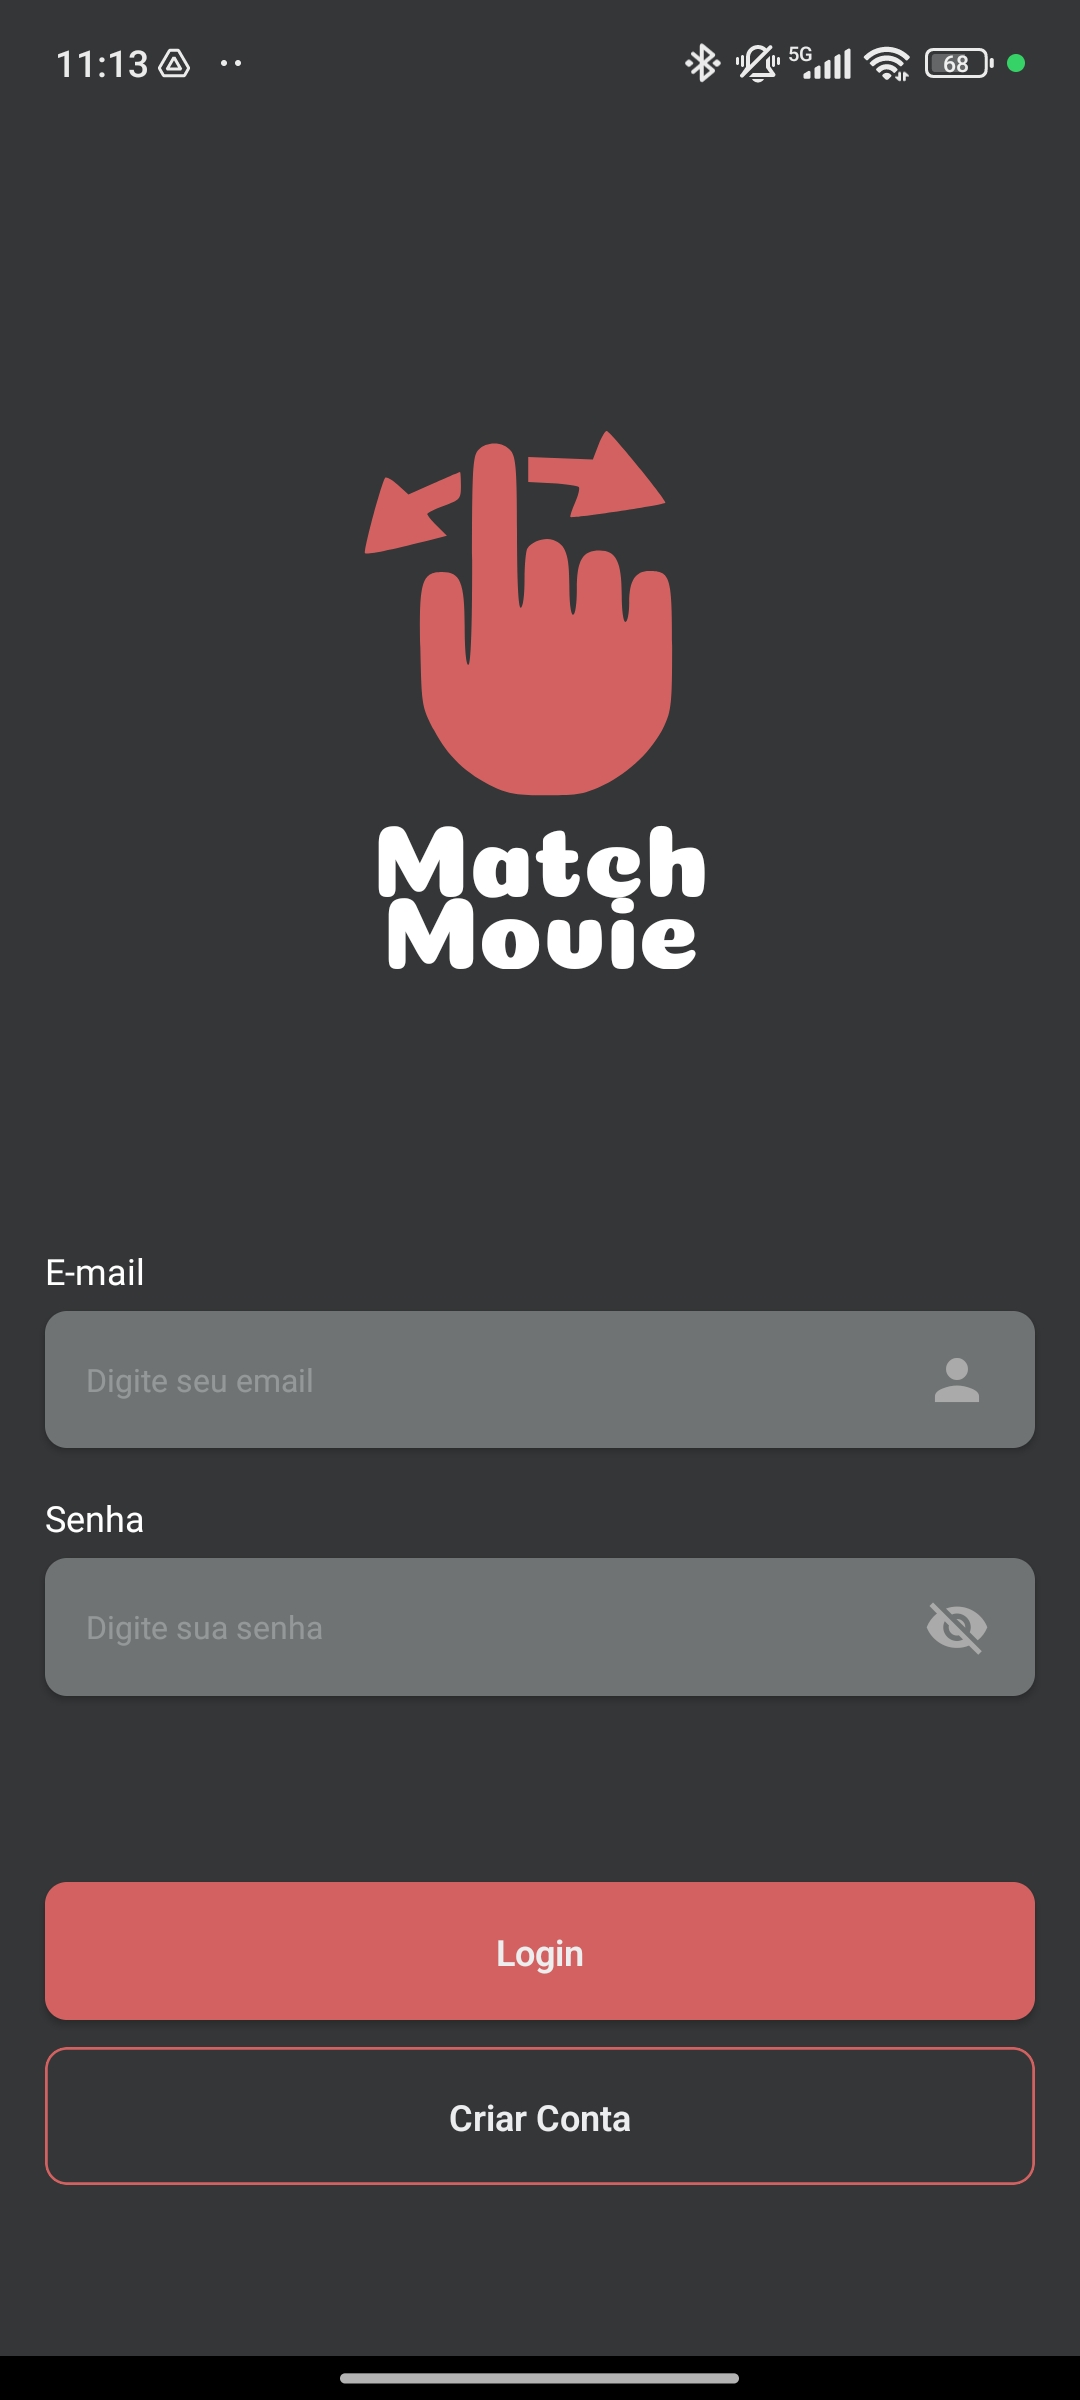
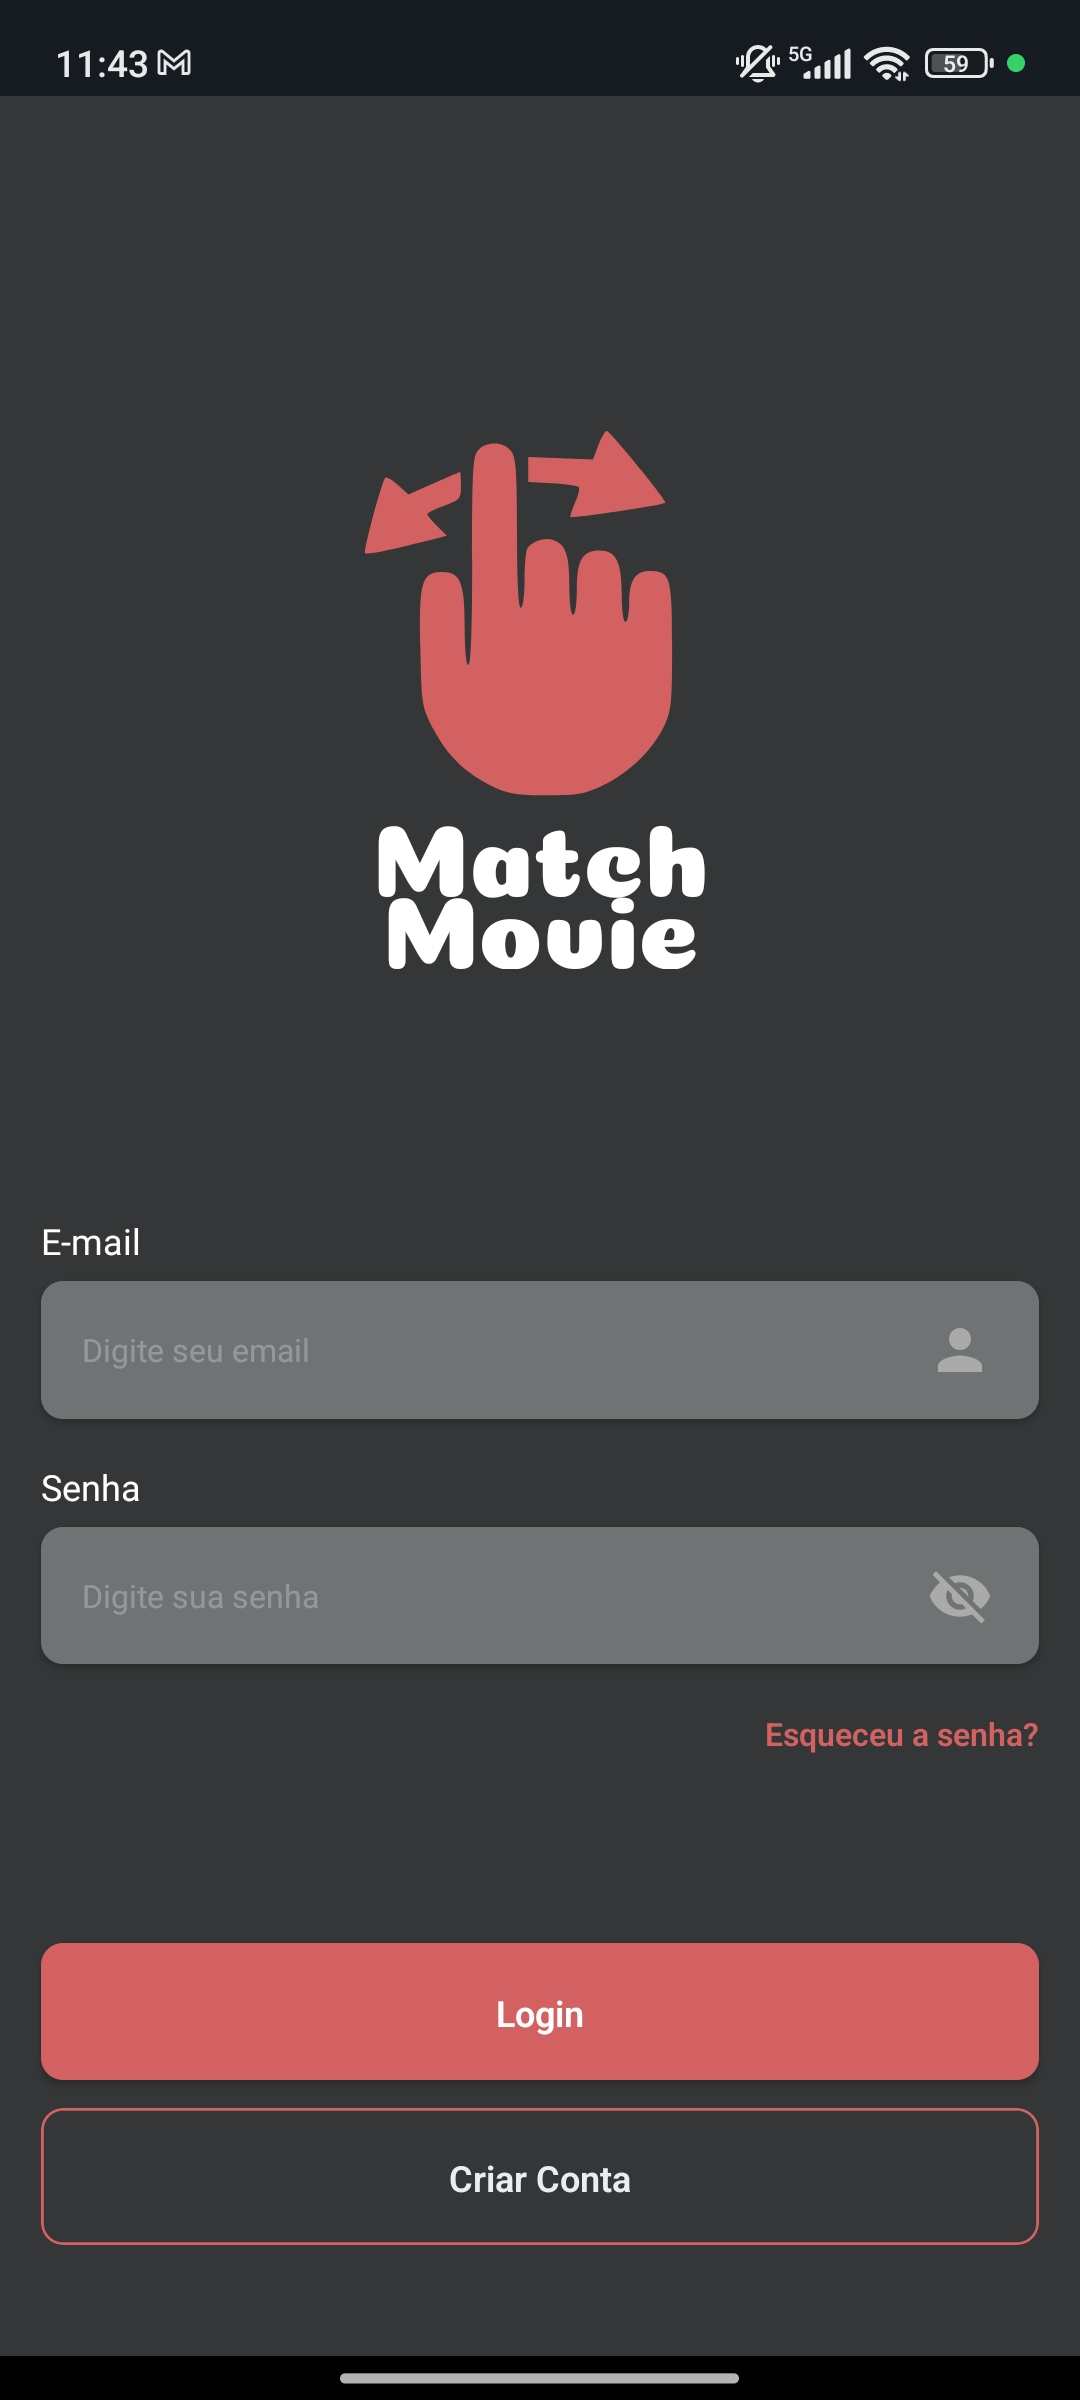
Fix: rec senha, readme, ui

Changed region(s): [[0.0306, 0.5, 0.9778, 0.75], [0.0306, 0.7812, 0.9778, 0.9375], [0.0, 0.0, 1.0, 0.0625]]

diff --git a/app/(tabs)/profile.tsx b/app/(tabs)/profile.tsx
@@ -1,4 +1,5 @@
 import AlertModal from "@/components/ModalAlert";
+import ConfirmModal from "@/components/ModalAlertConfirm";
 import { ThemedText } from "@/components/ThemedText";
 import { Colors } from "@/constants/Colors";
 import { URL_LOCALHOST } from "@/constants/Url";
@@ -51,11 +52,10 @@ export default function ProfileScreen() {
         CoinyRegular: require("../../assets/fonts/Coiny-Regular.ttf"),
     });
     const [refreshing, setRefreshing] = useState(false);
-    const [showModal, setShowModal] = useState(false);
-    const [modalText, setModalText] = useState<string>("");
+    const [confirmDeleteVisible, setConfirmDeleteVisible] = useState(false);
 
     const fetchUserData = async () => {
-        console.log("Token", authToken);
+        // console.log("Token", authToken);
 
         if (!userId) {
             console.log("Sem ID");
@@ -66,14 +66,11 @@ export default function ProfileScreen() {
 
         try {
             console.log("Pegando dados do usuário: ", userId);
-            const response = await fetch(
-                `${URL_LOCALHOST}/users/${userId}`,
-                {
-                    headers: {
-                        Authorization: `Bearer ${authToken}`,
-                    },
-                }
-            );
+            const response = await fetch(`${URL_LOCALHOST}/users/${userId}`, {
+                headers: {
+                    Authorization: `Bearer ${authToken}`,
+                },
+            });
             console.log("Status:", response.status);
 
             if (!response.ok) {
@@ -131,7 +128,9 @@ export default function ProfileScreen() {
 
         if (username.trim() && username.trim().length < 4) {
             setModalType("alert");
-            setModalMessage("O nome de usuário deve ter pelo menos 4 caracteres.");
+            setModalMessage(
+                "O nome de usuário deve ter pelo menos 4 caracteres."
+            );
             setModalVisible(true);
             return;
         }
@@ -144,17 +143,14 @@ export default function ProfileScreen() {
             if (username.trim()) updatedFields.user = username.trim();
             if (second_name.trim())
                 updatedFields.second_name = second_name.trim();
-            const response = await fetch(
-                `${URL_LOCALHOST}/users/${userId}`,
-                {
-                    method: "PATCH",
-                    headers: {
-                        "Content-Type": "application/json",
-                        Authorization: `Bearer ${authToken}`,
-                    },
-                    body: JSON.stringify(updatedFields),
-                }
-            );
+            const response = await fetch(`${URL_LOCALHOST}/users/${userId}`, {
+                method: "PATCH",
+                headers: {
+                    "Content-Type": "application/json",
+                    Authorization: `Bearer ${authToken}`,
+                },
+                body: JSON.stringify(updatedFields),
+            });
 
             console.log("Response Status:", response.status);
 
@@ -181,6 +177,33 @@ export default function ProfileScreen() {
             setModalVisible(true);
         } finally {
             setIsSaving(false);
+        }
+    };
+
+    const handleDeleteUser = async () => {
+        try {
+            const response = await fetch(`${URL_LOCALHOST}/users/${userId}`, {
+                method: "DELETE",
+                headers: {
+                    Authorization: `Bearer ${authToken}`, // Pass the token
+                },
+            });
+
+            if (!response.ok) {
+                console.log(response);
+                throw new Error("Failed to delete user");
+            }
+            await logout();
+
+            navigation.reset({
+                index: 0,
+                routes: [{ name: "(auths)" }],
+            });
+        } catch (error) {
+            console.error("Erro ao deletar usuário:", error);
+            setModalType("error");
+            setModalMessage("Erro ao deletar usuário!");
+            setModalVisible(true);
         }
     };
 
@@ -343,12 +366,28 @@ export default function ProfileScreen() {
                     style={{
                         backgroundColor: "transparent",
                         position: "absolute",
-                        right: 30,
-                        top: 25,
-                        borderRadius: 100,
+                        right: 10,
+                        top: 10,
+                        padding: 20,
                     }}
                 >
-                    <FontAwesome size={22} name="pencil" color={"#FFFFFF"} />
+                    <FontAwesome size={25} name="pencil" color={"#FFFFFF"} />
+                </TouchableOpacity>
+                <TouchableOpacity
+                    onPress={() => setConfirmDeleteVisible(true)}
+                    style={{
+                        backgroundColor: "transparent",
+                        position: "absolute",
+                        right: 10,
+                        top: 80,
+                        padding: 20,
+                    }}
+                >
+                    <FontAwesome
+                        size={25}
+                        name="trash"
+                        color={Colors.dark.tabIconSelected}
+                    />
                 </TouchableOpacity>
             </View>
             <View
@@ -510,7 +549,7 @@ export default function ProfileScreen() {
                         type="defaultSemiBold"
                         style={{ color: "white" }}
                     >
-                       {isExiting ? (
+                        {isExiting ? (
                             <ActivityIndicator size="small" color="#fff" />
                         ) : (
                             <Text style={{ color: "#fff", fontSize: 16 }}>
@@ -525,7 +564,13 @@ export default function ProfileScreen() {
                     visible={modalVisible}
                     onClose={() => setModalVisible(false)}
                 />
-                {/* {showModal && <TinyModal text={modalText} />} */}
+                <ConfirmModal
+                    type="alert"
+                    visible={confirmDeleteVisible}
+                    onConfirm={handleDeleteUser}
+                    onCancel={() => setConfirmDeleteVisible(false)}
+                    message="Tem certeza que deseja excluir seu perfil?"
+                />
             </View>
         </ScrollView>
     );

diff --git a/app/(auths)/ResetPassword.tsx b/app/(auths)/ResetPassword.tsx
@@ -109,6 +109,9 @@ const ResetPassword = ({ navigation }: { navigation: any }) => {
                     height={150}
                     fill={Colors.dark.tabIconSelected}
                 />
+                <ThemedText type="title" style={styles.textLogo}>
+                    Recuperação de senha
+                </ThemedText>
             </View>
 
             <View>
@@ -139,11 +142,11 @@ const ResetPassword = ({ navigation }: { navigation: any }) => {
                     </Pressable>
                 </View>
 
-                <ThemedText style={styles.text}>Confirmar senha</ThemedText>
+                <ThemedText style={styles.text}>Confirmar nova senha</ThemedText>
                 <View style={styles.passwordContainer}>
                     <TextInput
                         style={styles.input}
-                        placeholder="Confirme sua senha"
+                        placeholder="Confirme sua nova senha"
                         selectionColor={Colors.dark.tabIconSelected}
                         placeholderTextColor={Colors.dark.textPlaceHolder}
                         secureTextEntry={!passwordVisible}
@@ -175,7 +178,7 @@ const ResetPassword = ({ navigation }: { navigation: any }) => {
                             <ActivityIndicator size="small" color="#fff" />
                         ) : (
                             <Text style={{ color: "#fff", fontSize: 16 }}>
-                                Enviar
+                                Atualizar senha
                             </Text>
                         )}
                     </ThemedText>
@@ -241,6 +244,17 @@ const styles = StyleSheet.create({
     },
     icon: {
         padding: 10,
+    },
+    textLogo: {
+        color: "white",
+        alignSelf: "center",
+        justifyContent: "center",
+        width: Dimensions.get("screen").width / 1.5,
+        textAlign: "center",
+        backgroundColor: Colors.dark.background,
+        fontFamily: "CoinyRegular",
+        fontWeight: 400,
+        fontSize: 46,
     },
 });
 

diff --git a/app/(auths)/RequestPasswordReset.tsx b/app/(auths)/RequestPasswordReset.tsx
@@ -89,6 +89,9 @@ const RequestPasswordReset = ({ navigation }: { navigation: any }) => {
                     height={150}
                     fill={Colors.dark.tabIconSelected}
                 />
+                <ThemedText type="title" style={styles.textLogo}>
+                    Recuperação de senha
+                </ThemedText>
             </View>
             <View>
                 <ThemedText style={styles.text}>
@@ -96,7 +99,7 @@ const RequestPasswordReset = ({ navigation }: { navigation: any }) => {
                 </ThemedText>
                 <TextInput
                     style={styles.input}
-                    placeholder="Escreva seu email"
+                    placeholder="Digite seu email"
                     value={email}
                     selectionColor={Colors.dark.tabIconSelected}
                     placeholderTextColor={Colors.dark.textPlaceHolder}
@@ -137,6 +140,8 @@ const styles = StyleSheet.create({
         backgroundColor: Colors.dark.background,
     },
     backButton: {
+        position:'absolute',
+        top: 70,
         width: 50,
         height: 50,
         alignItems: "center",
@@ -172,11 +177,11 @@ const styles = StyleSheet.create({
         color: "white",
         alignSelf: "center",
         justifyContent: "center",
-        width: Dimensions.get("screen").width - 40,
+        width: Dimensions.get("screen").width / 1.5,
         textAlign: "center",
         fontFamily: "CoinyRegular",
         fontWeight: 400,
-        fontSize: 32,
+        fontSize: 46,
         marginTop: 20,
     },
 });

diff --git a/app/(auths)/Login.tsx b/app/(auths)/Login.tsx
@@ -22,6 +22,7 @@ type RootStackParamList = {
     register: undefined;
     "(tabs)": { screen: string };
     RequestPasswordReset: undefined;
+    ResetPassword: undefined;
 };
 
 type LoginScreenNavigationProp = StackNavigationProp<RootStackParamList>;
@@ -173,7 +174,7 @@ const LoginScreen = () => {
                     />
                 </View>
                 <Pressable
-                    onPress={() => navigation.navigate("RequestPasswordReset")}
+                    onPress={() => navigation.navigate("ResetPassword")}
                     style={styles.forgotPassword}
                 >
                     <ThemedText

diff --git a/app/+not-found.tsx b/app/+not-found.tsx
@@ -10,9 +10,9 @@ export default function NotFoundScreen() {
     <>
       <Stack.Screen options={{ title: 'Oops!' }} />
       <ThemedView style={styles.container}>
-        <ThemedText type="title">This screen doesn't exist.</ThemedText>
+        <ThemedText type="title">Esta tela não existe!</ThemedText>
         <Link href="/" style={styles.link}>
-          <ThemedText type="link">Go to home screen!</ThemedText>
+          <ThemedText type="link">Vá para a tela inicial!</ThemedText>
         </Link>
       </ThemedView>
     </>

diff --git a/README.md b/README.md
@@ -129,6 +129,11 @@ MatchMovie-Native/
 <img src="./markdown/login.jpg" width="200" height="444"/>
 <img src="./markdown/registro.jpg" width="200" height="444"/>
 
+<h3>Telas de recuperação de senha</h3>
+
+<img src="./markdown/rec_senha.jpg" width="200" height="444"/>
+<img src="./markdown/rec_senha2.jpg" width="200" height="444"/>
+
 <h3>Telas principais</h3>
 
 <img src="./markdown/catalogo.jpg" width="200" height="444"/>
